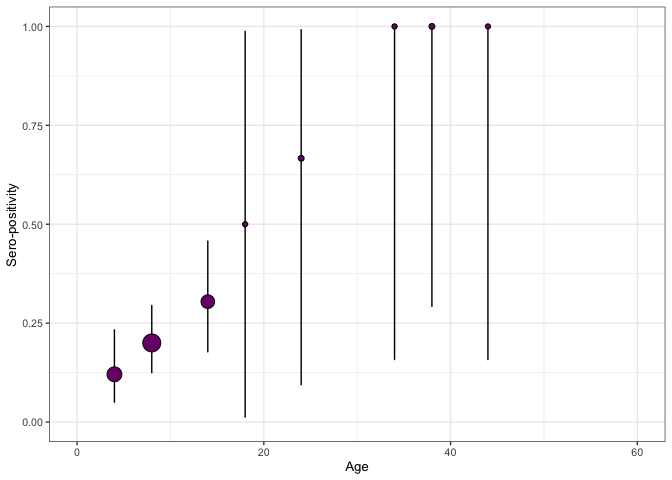
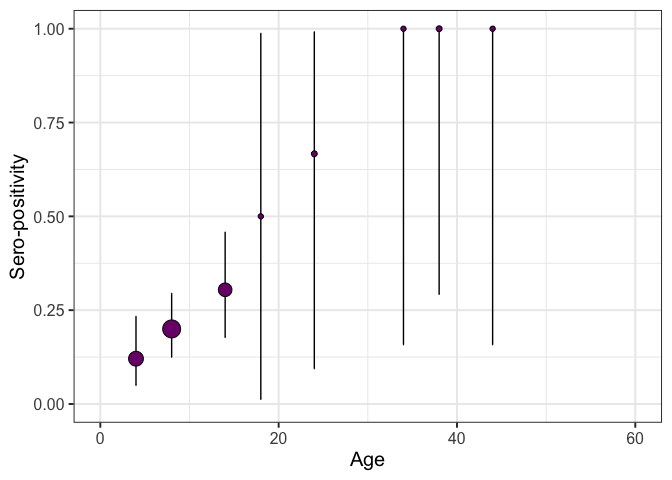
improved vignette with contributions

diff --git a/README.md b/README.md
@@ -61,7 +61,7 @@ the binomial confidence interval of the observed data.
 
 data_test <- prepare_data(mydata)
 
-plot_seroprev(data_test, size_text = 10)
+plot_seroprev(data_test, size_text = 15)
 ```
 
 <img src="man/figures/README-data_test-1.png" width="100%" />
@@ -76,7 +76,7 @@ thinning, and other parameters can be customised.
 computer make take a few minutes as this is the first time the rstan
 code is compiled locally.*
 
-##### Model 1. Constant Force-of-Infection (endemic model)
+#### Model 1. Constant Force-of-Infection (endemic model)
 
 For the *endemic model* a small number of iterations is enough for
 achieving convergence, as it only fits one parameter (the constant FoI)
@@ -103,7 +103,7 @@ model_1 <- run_model(model_data = data_test,
 #> converged  "Yes"
 ```
 
-##### Model 2. Time-varying Force-of-Infection (epidemic model)
+#### Model 2. Time-varying Force-of-Infection (epidemic model)
 
 For the *epidemic model,* a larger number of iterations is required for
 achieving convergence, as it fits a yearly FoI from a binomial
@@ -132,14 +132,10 @@ model_2 <- run_model(model_data = data_test,
 #> converged  "Yes"
 ```
 
-##### Model 3. Time-varying Force-of-Infection with a (fast epidemic model)
+#### Model 3. Time-varying Force-of-Infection (fast epidemic model)
 
-For the *epidemic model,* a larger number of iterations is required for
-achieving convergence, compared to the previous ones, as it fits a
-yearly FoI from a normal distribution with log superprior. As with the
-endemic model, the number of iterations required may depend on the
-number of years reflected by the difference between year of the
-serosurvey and the maximum age-class sampled.
+For the *fast* *epidemic model,* a larger number of iterations is
+required for achieving convergence, compared to the previous ones.
 
 ``` r
 model_3 <- run_model(model_data = data_test,
@@ -163,14 +159,14 @@ model_3 <- run_model(model_data = data_test,
 ```
 
 For each model, the plot_model function generate a vertical arrange of
-plots summarising the results of the model implementation ploting
-functions. Crutially, it shows the (expected) log-predictive density
+plots summarising the results of the model implementation plotting
+functions. Crucially, it shows the (expected) log-predictive density
 `elpd`, standard error `se`, and allows to check convergence based on
 **`R`**`-hat` convergence diagnostics.
 
 ``` r
 
-plot_model(model_2, size_text = 10)
+plot_model(model_2, size_text = 15)
 ```
 
 <img src="man/figures/README-plot_model-1.png" width="100%" />
@@ -178,8 +174,7 @@ plot_model(model_2, size_text = 10)
 Also, the `plot_models_list` allows a visual a comparison of the models
 based on convergence, elpd and p-values
 
-For mre information, please check detailed mathematical formulation of
-the models on
+For more detailed information and examples, please check
 
 ### Lifecycle
 
@@ -197,11 +192,11 @@ Contributors to the project include:
 
 - [Zulma M. Cucunubá](https://github.com/zmcucunuba) (author)
 
-- \[Nicolás Tórres\] (author)
+- [Nicolás Tórres](https://github.com/ntorresd) (author)
 
-- \[Benjamin Lambert\] (author)
+- [Benjamin Lambert](https://ben-lambert.com/about/) (author)
 
-- \[Pierre Nouvellet\] (author)
+- [Pierre Nouvellet](https://github.com/pnouvellet) (author)
 
 - [Miguel Gamez](https://github.com/megamezl) (contributor)
 

diff --git a/.github/CONTRIBUTING.md b/.github/CONTRIBUTING.md
@@ -1,0 +1,40 @@
+# Contributing to serofoi
+
+This outlines how to propose a change to serofoi.
+
+## Making changes
+
+If you want to make a change, it's a good idea to first file an issue and make sure someone from the team agrees that it’s needed.
+If you’ve found a bug, please file an issue that illustrates the bug with a minimal 
+[reprex](https://www.tidyverse.org/help/#reprex) (this will also help you write a unit test, if needed). See [bug report template](../.github/ISSUE_TEMPLATE/bug_report.md). If you have a feature request see [feature request](../.github/ISSUE_TEMPLATE/feature_request.md).
+
+### Pull request process
+
+See [pull request template](../.github/PULL_REQUEST_TEMPLATE/pull_request_template.md)
+
+*   Fork the package and clone onto your computer. If you haven't done this before, we recommend using `usethis::create_from_github("epiverse-trace/serofoi", fork = TRUE)`.
+
+*   Install all development dependencies with `devtools::install_dev_deps()`, and then make sure the package passes R CMD check by running `devtools::check()`. 
+    If R CMD check doesn't pass cleanly, it's a good idea to ask for help before continuing. 
+*   Create a Git branch for your pull request (PR). We recommend using `usethis::pr_init("brief-description-of-change")`.
+
+*   Make your changes, commit to git, and then create a PR by running `usethis::pr_push()`, and following the prompts in your browser.
+    The title of your PR should briefly describe the change.
+    The body of your PR should contain `Fixes #issue-number`.
+
+*  For user-facing changes, add a bullet to the top of `NEWS.md` (i.e. just below the first header). Follow the style described in <https://style.tidyverse.org/news.html>.
+
+### Code style
+
+*   New code should follow the tidyverse [style guide](https://style.tidyverse.org). 
+    You can use the [styler](https://CRAN.R-project.org/package=styler) package to apply these styles, but please don't restyle code that has nothing to do with your PR.  
+
+*  We use [roxygen2](https://cran.r-project.org/package=roxygen2), with [Markdown syntax](https://cran.r-project.org/web/packages/roxygen2/vignettes/rd-formatting.html), for documentation.  
+
+*  We use [testthat](https://cran.r-project.org/package=testthat) for unit tests. 
+   Contributions with test cases included are easier to accept.  
+
+## Code of Conduct
+
+Please note that the serofoi project is released with a
+[Contributor Code of Conduct](https://github.com/epiverse-trace/.github/blob/main/CODE_OF_CONDUCT.md). By contributing to this project you agree to abide by its terms.
